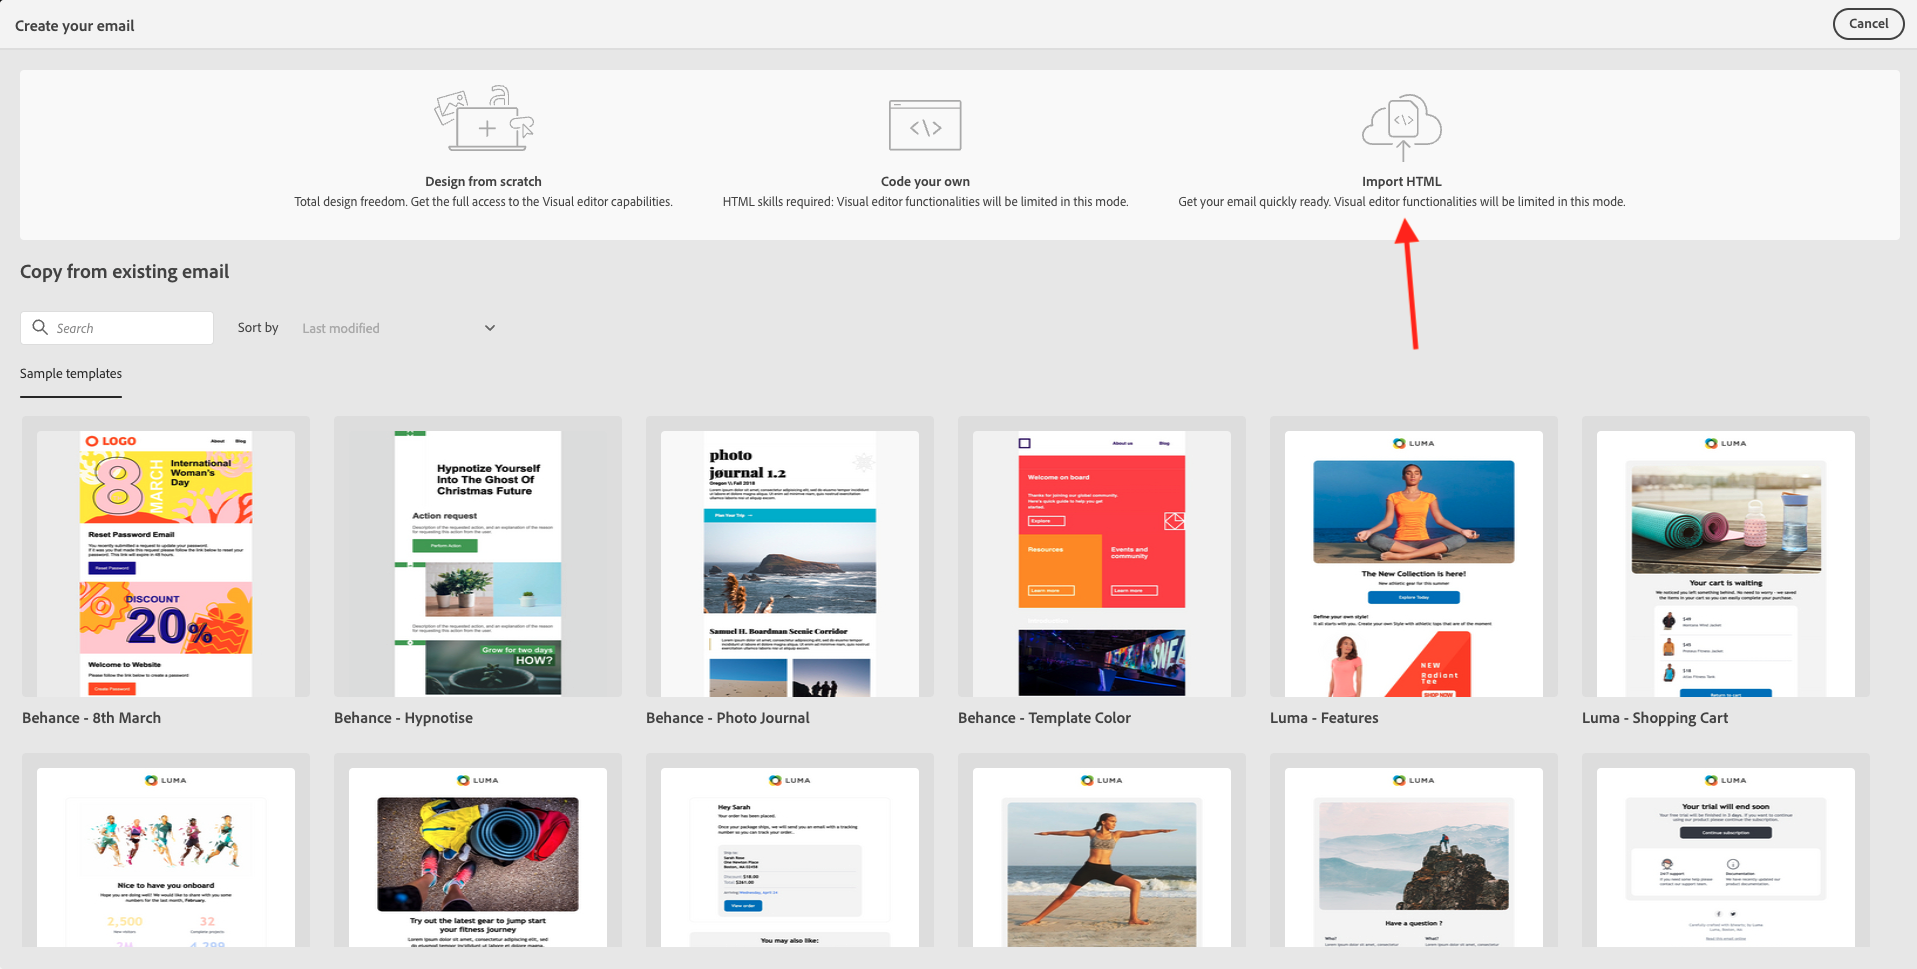
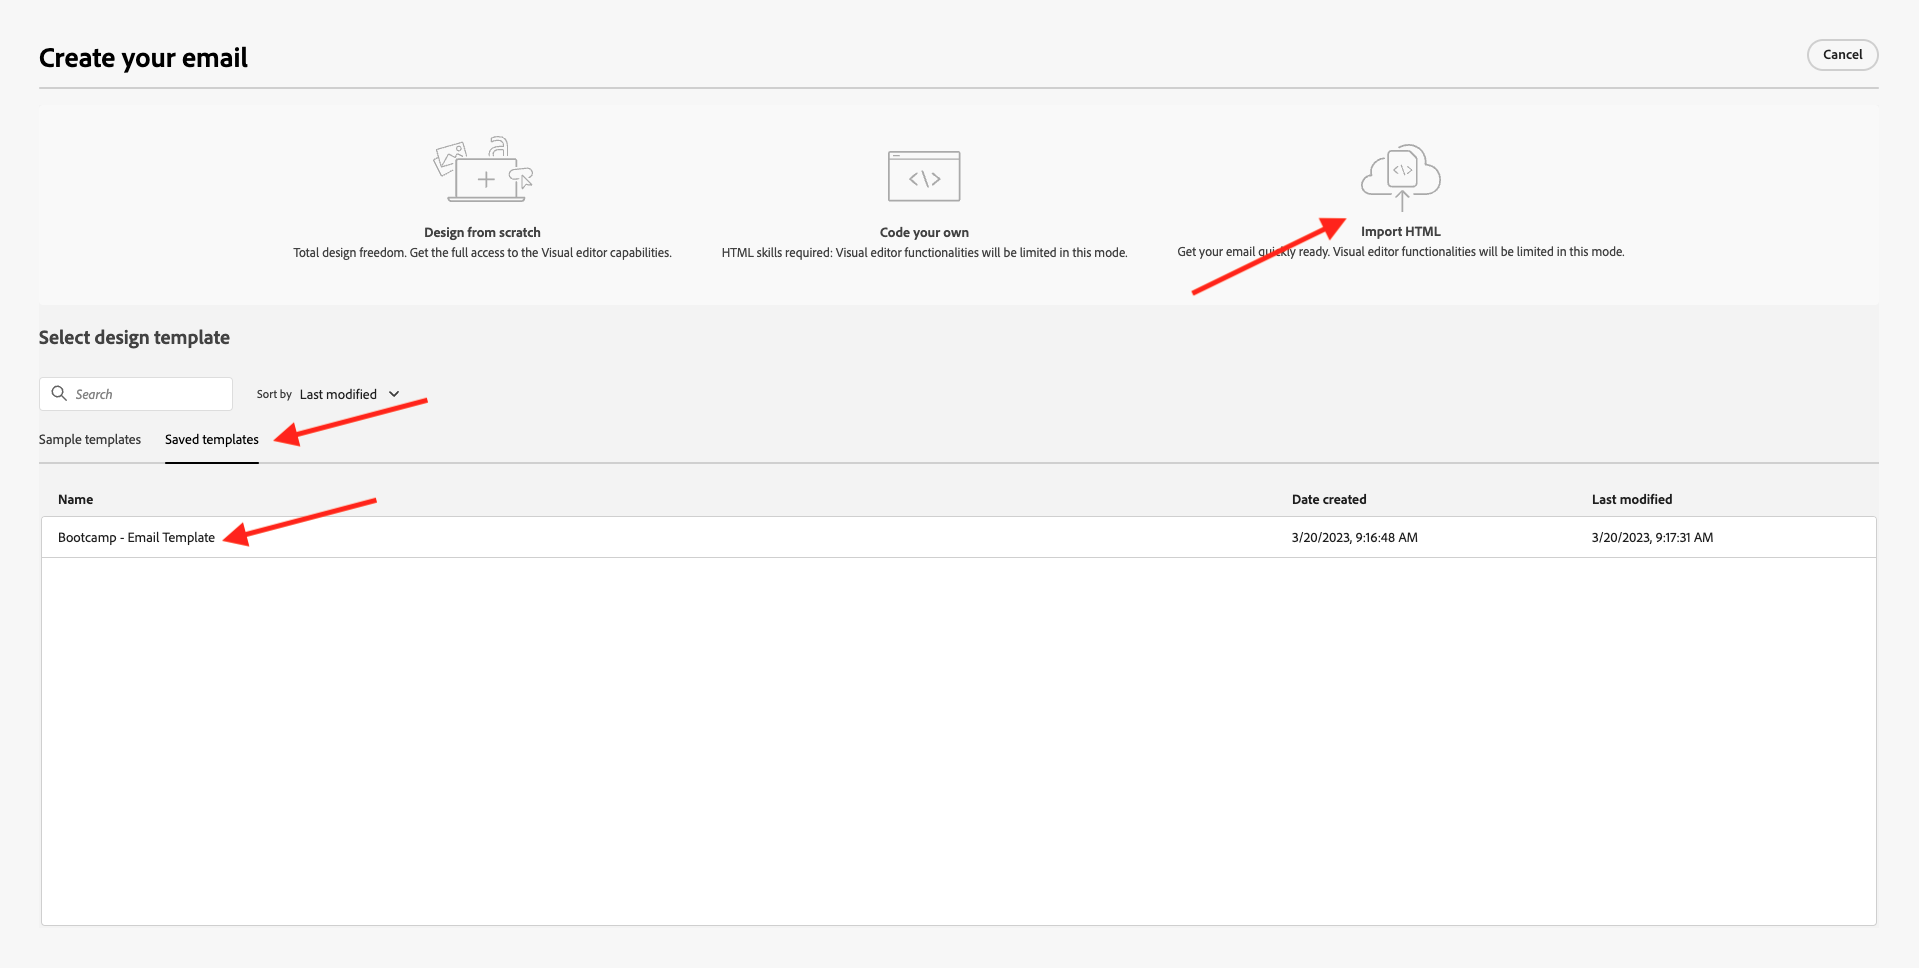
update ex 2.3

diff --git a/help/bootcamp/uc/uc2/ex3.md b/help/bootcamp/uc/uc2/ex3.md
@@ -107,11 +107,11 @@ In the next screen you will be prompted with 3 different methods to provide the 
 - **Code your own**: Create your own email template by coding it using HTML
 - **Import HTML**: Import an existing HTML template, which you'll be able to edit.
 
-Click **Import HTML**.
+Click **Import HTML**. Alternatively, you can click **Saved Templates** and select the template **Bootcamp - Email Template**.
 
 ![Journey Optimizer](./images/msg12.png)
 
-Drag and drop the file **mailtemplatebootcamp.html**, which you can download [here](../../assets/html/mailtemplatebootcamp.html.zip). Click Import.
+If you selected **Import HTML**, you can now drag and drop the file **mailtemplatebootcamp.html**, which you can download [here](../../assets/html/mailtemplatebootcamp.html.zip). Click Import.
 
 ![Journey Optimizer](./images/msg13.png)
 
